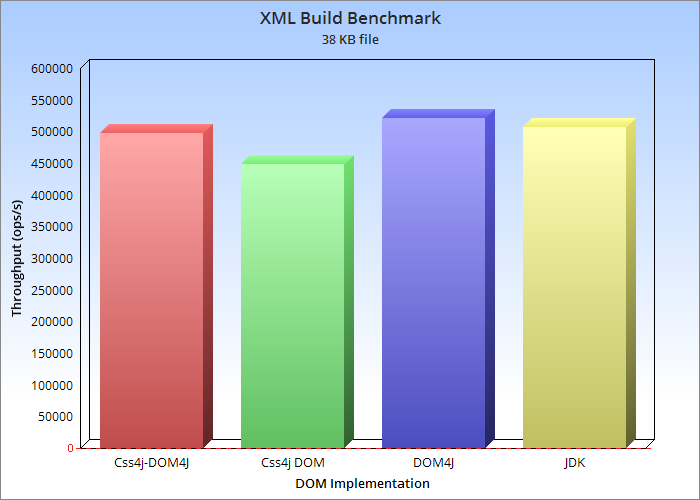
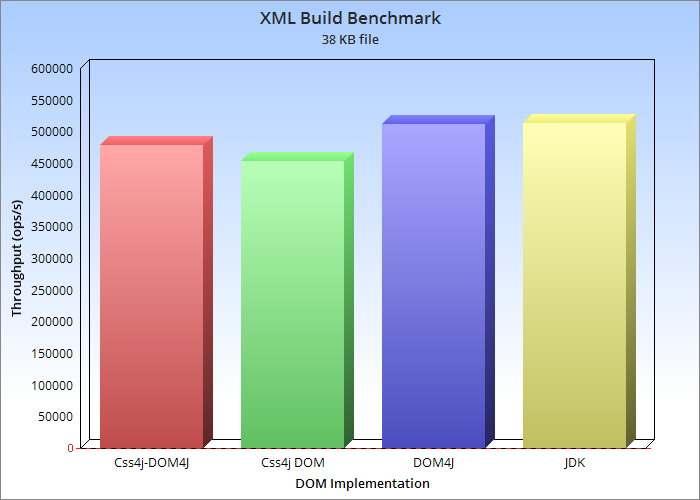
Update XML-DOM benchmarks.

diff --git a/dom-mark.html b/dom-mark.html
@@ -62,23 +62,23 @@ that the version shipped with the Oracle JDK may be faster.</p>
 <p>Numeric results (higher is better):</p>
 <table class="normaltbl">
 <tr><th>Implementation</th><th>Score</th><th>Error</th><th>Unit</th></tr>
-<tr><td>Css4j-DOM4J</td><td class="number">496,924</td><td class="number">±3,864</td><td>ops/s</td></tr>
-<tr><td>Css4j DOM</td><td class="number">447,644</td><td class="number">±7,290</td><td>ops/s</td></tr>
-<tr><td>DOM4J</td><td class="number">520,322</td><td class="number">±1,193</td><td>ops/s</td></tr>
-<tr><td>JDK</td><td class="number">507,176</td><td class="number">±6,105</td><td>ops/s</td></tr>
+<tr><td>Css4j-DOM4J</td><td class="number">478,464</td><td class="number">±2,842</td><td>ops/s</td></tr>
+<tr><td>Css4j DOM</td><td class="number">453,009</td><td class="number">±5,765</td><td>ops/s</td></tr>
+<tr><td>DOM4J</td><td class="number">511,700</td><td class="number">±3,038</td><td>ops/s</td></tr>
+<tr><td>JDK</td><td class="number">512,558</td><td class="number">±4,976</td><td>ops/s</td></tr>
 </table>
 </div>
-<div class="tema" id="xml-small-mark">
+<div class="tema" id="xml-mark">
 <h2>Build XML documents</h2>
 <p>The SAX parser that comes bundled with the JDK is used to parse and build a document (1MB file).</p>
 <img src="benchmark/xml-build.png" alt="XML build benchmark" />
 <p>Numeric results (higher is better):</p>
 <table class="normaltbl">
 <tr><th>Implementation</th><th>Score</th><th>Error</th><th>Unit</th></tr>
-<tr><td>Css4j-DOM4J</td><td class="number">92,285</td><td class="number">±3,441</td><td>ops/s</td></tr>
-<tr><td>Css4j DOM</td><td class="number">76,500</td><td class="number">±0,630</td><td>ops/s</td></tr>
-<tr><td>DOM4J</td><td class="number">106,743</td><td class="number">±0,852</td><td>ops/s</td></tr>
-<tr><td>JDK</td><td class="number">113,399</td><td class="number">±1,531</td><td>ops/s</td></tr>
+<tr><td>Css4j-DOM4J</td><td class="number">90,796</td><td class="number">±1,193</td><td>ops/s</td></tr>
+<tr><td>Css4j DOM</td><td class="number">83,717</td><td class="number">±0,746</td><td>ops/s</td></tr>
+<tr><td>DOM4J</td><td class="number">116,575</td><td class="number">±0,682</td><td>ops/s</td></tr>
+<tr><td>JDK</td><td class="number">126,955</td><td class="number">±0,857</td><td>ops/s</td></tr>
 </table>
 </div>
 <div class="tema" id="analysis">
@@ -102,7 +102,7 @@ Stack profiler:
 </pre>
 <p>So its usage is not recommended for multi-core systems.</p>
 <p>DOM implementations that are CSS-enabled (like Css4j-DOM4j and Css4j's native DOM) are necessarily a bit slower than plain DOM, and Css4j's native DOM is the slowest of the
-measured implementations (especially when processing large XML files). More benchmarks are needed to verify that the balance of optimizations/implementation decisions in the native DOM is adequate, and try to improve its performance.</p>
+measured implementations, which is not entirely surprising as it also has more features.</p>
 </div>
 </div>
 <div class="footnote">
